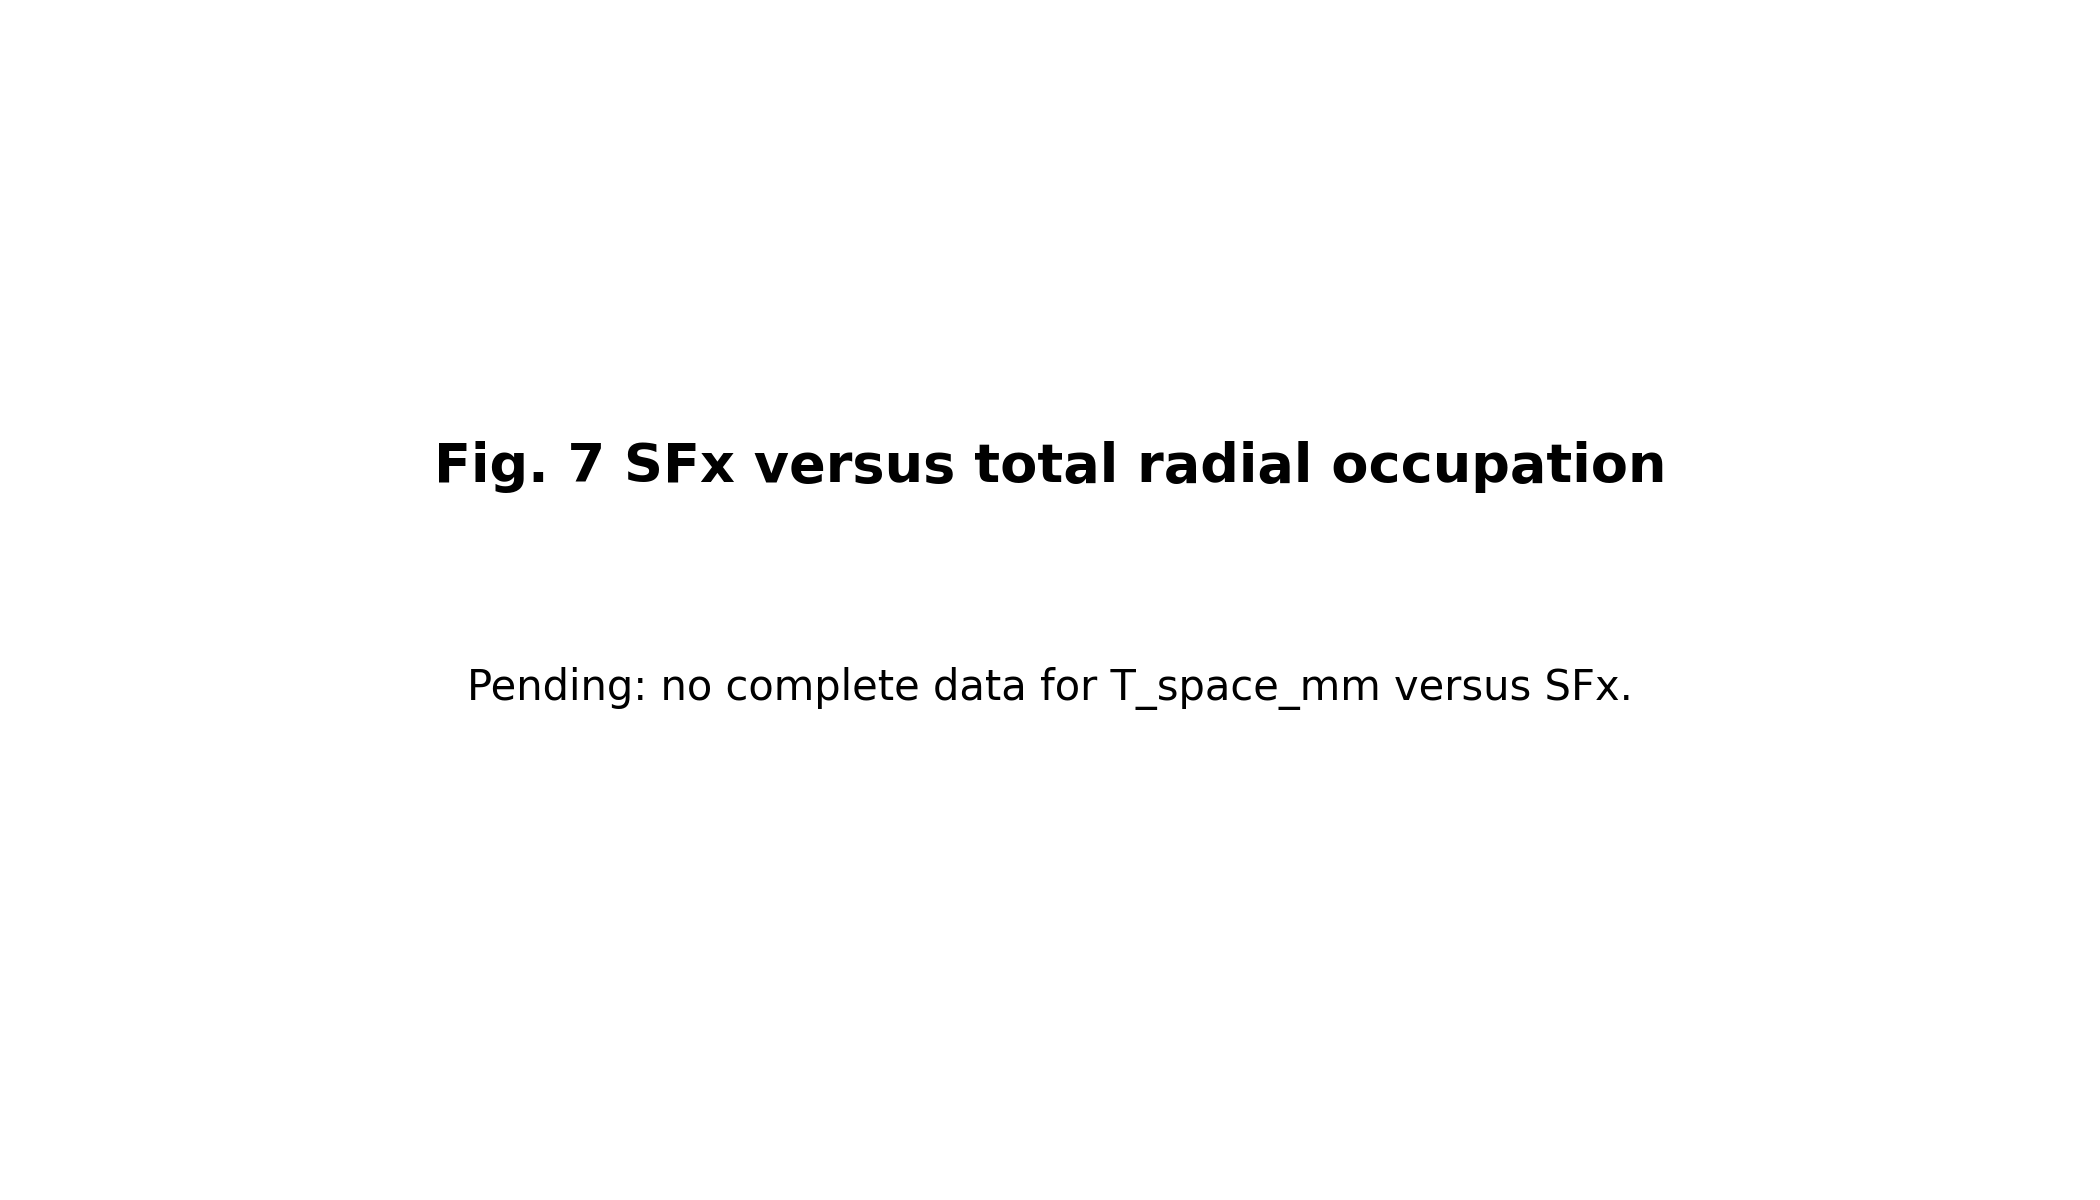
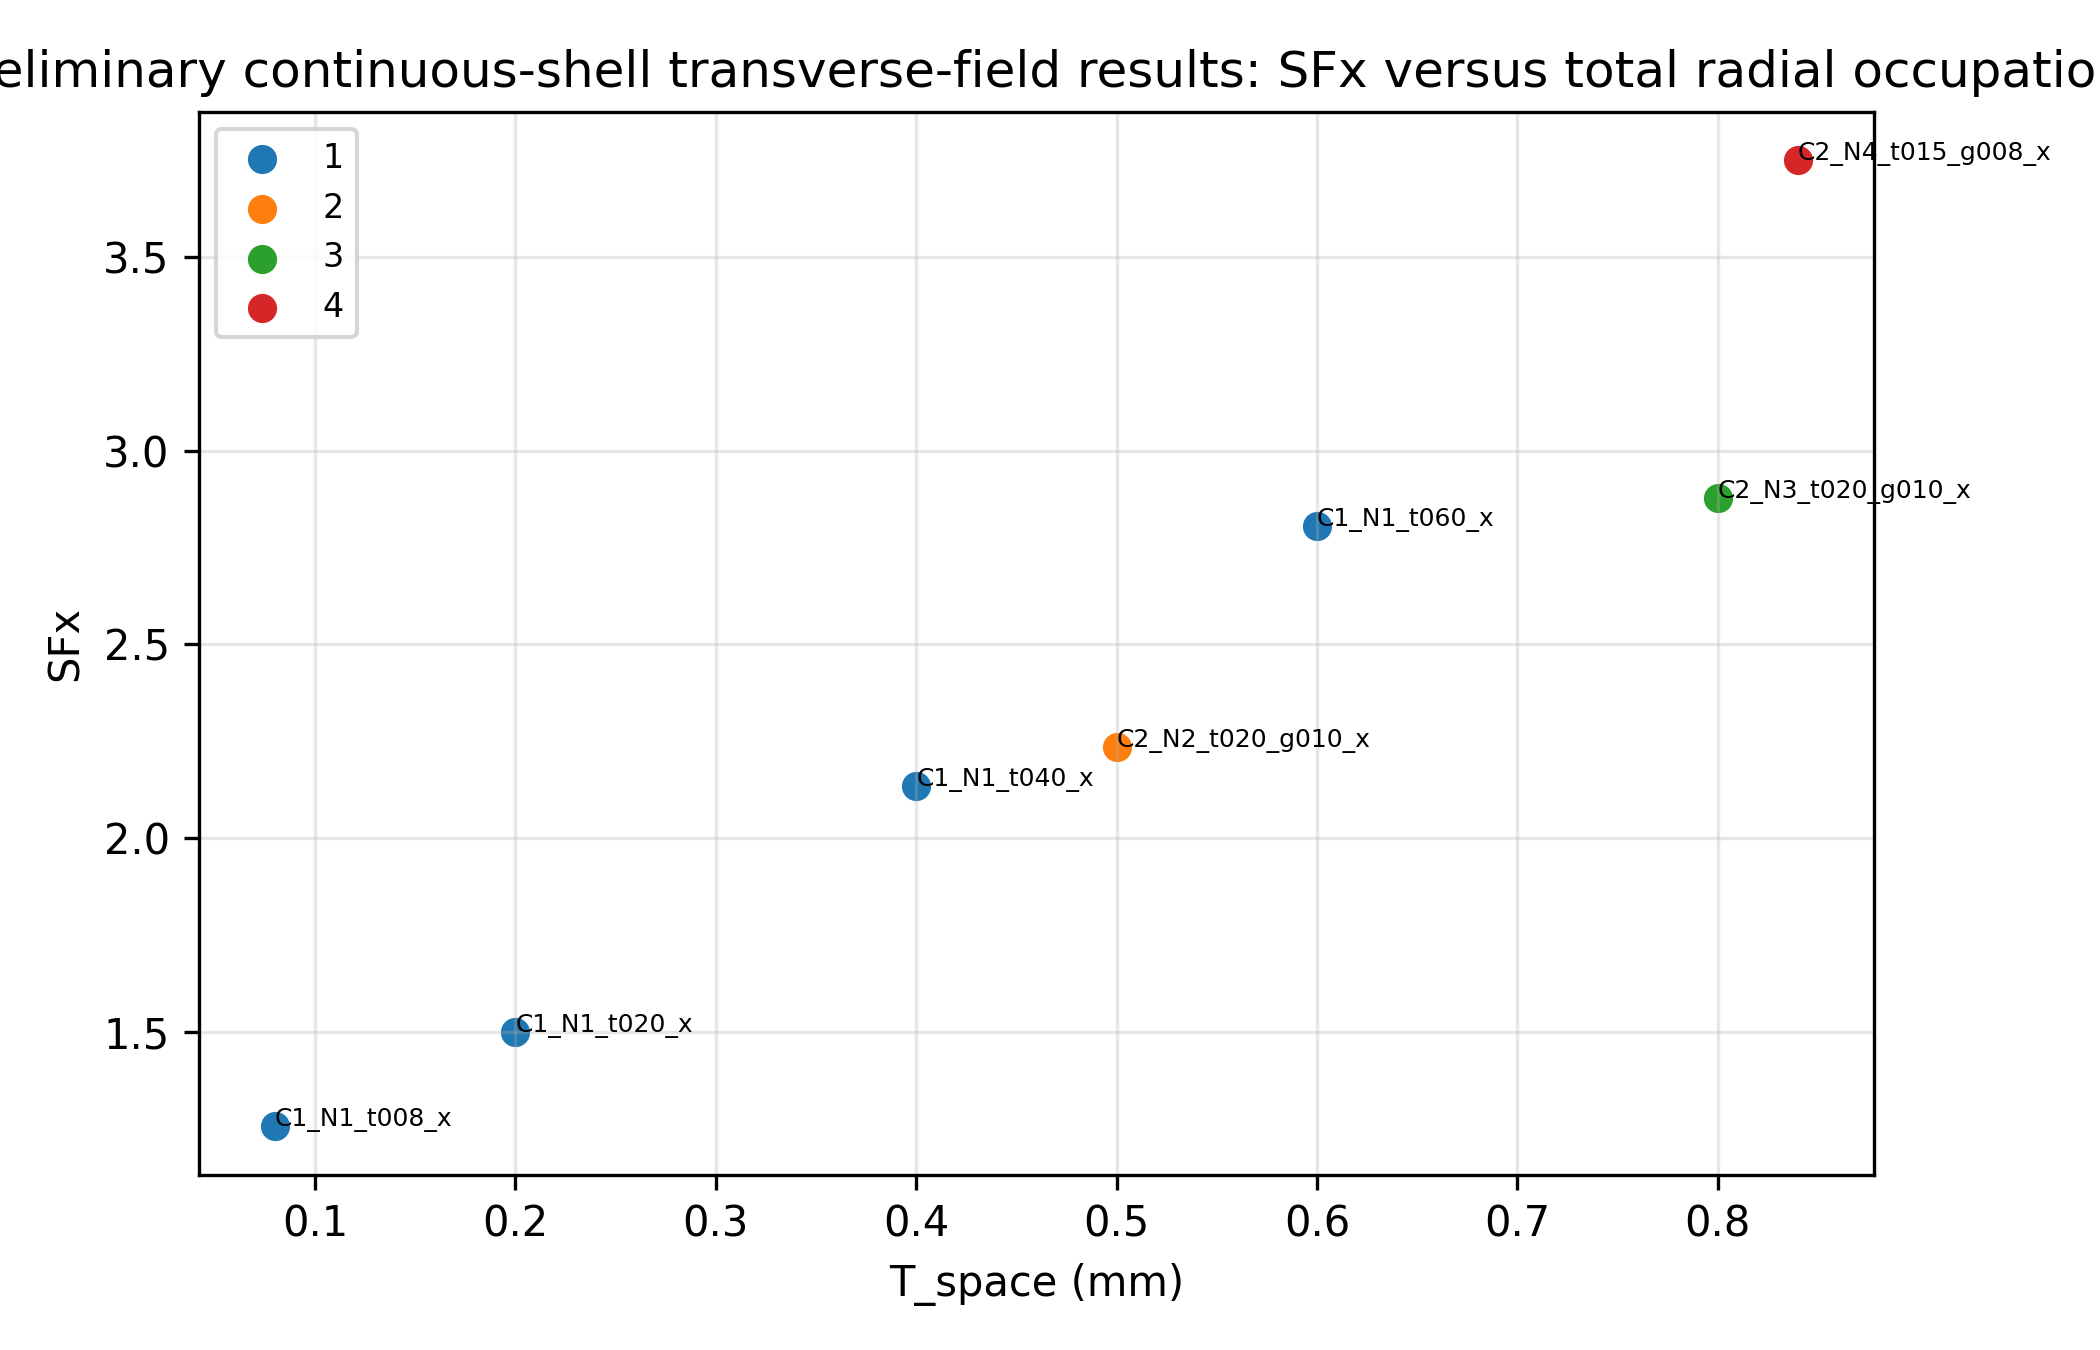
Add preliminary transverse continuous-shell figures

diff --git a/scripts/plotting/plot_paper_figures.py b/scripts/plotting/plot_paper_figures.py
@@ -15,6 +15,20 @@ ROOT = Path(__file__).resolve().parents[2]
 METRICS = ROOT / "data" / "processed" / "metrics_table.csv"
 VALIDATION = ROOT / "data" / "validation" / "layerwise_intH2_validation.csv"
 OUTDIR = ROOT / "figures"
+TRANSVERSE_CASES = [
+    "C1_N1_t008_x",
+    "C1_N1_t020_x",
+    "C1_N1_t040_x",
+    "C1_N1_t060_x",
+    "C2_N2_t020_g010_x",
+    "C2_N3_t020_g010_x",
+    "C2_N4_t015_g008_x",
+]
+LAYERWISE_CASES = [
+    "C2_N2_t020_g010_x",
+    "C2_N3_t020_g010_x",
+    "C2_N4_t015_g008_x",
+]
 
 
 def f(value):
@@ -34,6 +48,17 @@ def read_csv(path):
         return []
     with path.open("r", newline="", encoding="utf-8-sig") as file:
         return list(csv.DictReader(file))
+
+
+def processed_transverse_rows(rows):
+    wanted = set(TRANSVERSE_CASES)
+    return [
+        row for row in rows
+        if row.get("case_id") in wanted
+        and row.get("metric_status") == "processed"
+        and row.get("model_type") == "continuous_shell"
+        and row.get("external_field_direction") == "x"
+    ]
 
 
 def save_placeholder(path, title, message):
@@ -84,7 +109,7 @@ def bar_metrics(path, rows):
     import matplotlib.pyplot as plt
 
     keys = ["etaS_star", "rhoH", "chiH"]
-    complete = [row for row in rows if any(f(row.get(k, "")) == f(row.get(k, "")) for k in keys)]
+    complete = [row for row in rows if all(finite(f(row.get(k, ""))) for k in keys)]
     if not complete:
         save_placeholder(path, "Fig. 5 etaS*, rhoH, chiH comparison", "Pending: no complete metric rows available.")
         return
@@ -95,6 +120,7 @@ def bar_metrics(path, rows):
         values = [0 if not finite(v) else v for v in values]
         ax.bar(labels, values)
         ax.set_ylabel(key)
+        ax.set_title("Preliminary continuous-shell transverse-field results" if key == keys[0] else "")
         ax.grid(True, axis="y", alpha=0.3)
     axes[-1].tick_params(axis="x", rotation=45, labelsize=7)
     fig.tight_layout()
@@ -103,11 +129,17 @@ def bar_metrics(path, rows):
     print(f"Wrote {path}")
 
 
-def layer_fraction(path, rows):
+def layer_fraction(path, rows, validation_rows):
     import matplotlib.pyplot as plt
 
+    passed = {
+        row["case_id"] for row in validation_rows
+        if row.get("validation_status") == "passed"
+    }
     complete = []
     for row in rows:
+        if row.get("case_id") not in LAYERWISE_CASES or row.get("case_id") not in passed:
+            continue
         total = f(row.get("IntH2_total", ""))
         vals = [f(row.get(f"IntH2_L{i}", "")) for i in range(1, 7)]
         vals = [v for v in vals if finite(v)]
@@ -125,6 +157,7 @@ def layer_fraction(path, rows):
         ax.bar(labels, vals, bottom=bottoms, label=f"L{i+1}")
         bottoms = [b + v for b, v in zip(bottoms, vals)]
     ax.set_ylabel("IntH2_Li / IntH2_total")
+    ax.set_title("Preliminary continuous-shell transverse-field results")
     ax.legend()
     ax.tick_params(axis="x", rotation=45, labelsize=7)
     fig.tight_layout()
@@ -136,19 +169,20 @@ def layer_fraction(path, rows):
 def main():
     parser = argparse.ArgumentParser(description="Generate paper figures or pending-data placeholders.")
     parser.add_argument("--metrics", type=Path, default=METRICS)
+    parser.add_argument("--validation", type=Path, default=VALIDATION)
     parser.add_argument("--outdir", type=Path, default=OUTDIR)
     args = parser.parse_args()
 
-    rows = read_csv(args.metrics)
+    rows = processed_transverse_rows(read_csv(args.metrics))
+    validation_rows = read_csv(args.validation)
     args.outdir.mkdir(parents=True, exist_ok=True)
 
-    scatter(args.outdir / "Fig3_SFx_vs_Vf.png", rows, "Vf_mm3", "SFx", "Fig. 3 SFx versus Vf", "Vf (mm^3)", "SFx", "model_type")
-    scatter(args.outdir / "Fig4_IntH2_vs_Vf.png", rows, "Vf_mm3", "IntH2_total", "Fig. 4 IntH2_total,x versus Vf", "Vf (mm^3)", "IntH2_total,x")
+    title_prefix = "Preliminary continuous-shell transverse-field results"
+    scatter(args.outdir / "Fig3_SFx_vs_Vf.png", rows, "Vf_mm3", "SFx", f"{title_prefix}: SFx versus Vf", "Vf (mm^3)", "SFx", "N_layers")
+    scatter(args.outdir / "Fig4_IntH2_vs_Vf.png", rows, "Vf_mm3", "IntH2_total", f"{title_prefix}: IntH2_total versus Vf", "Vf (mm^3)", "IntH2_total")
     bar_metrics(args.outdir / "Fig5_eta_chi_comparison.png", rows)
-    layer_fraction(args.outdir / "Fig6_layerwise_IntH2_fraction.png", rows)
-    scatter(args.outdir / "Fig7_SFx_vs_Tspace.png", rows, "T_space_mm", "SFx", "Fig. 7 SFx versus total radial occupation", "T_space (mm)", "SFx", "N_layers")
-    scatter(args.outdir / "Fig8_axial_vs_transverse_selected.png", rows, "SFx", "SFz", "Fig. 8 axial versus transverse selected candidates", "SFx", "SFz")
-    scatter(args.outdir / "Fig9_segmented_penalty.png", rows, "slot_pattern", "SFx", "Fig. 9 segmented penalty", "slot pattern", "SFx")
+    layer_fraction(args.outdir / "Fig6_layerwise_IntH2_fraction.png", rows, validation_rows)
+    scatter(args.outdir / "Fig7_SFx_vs_Tspace.png", rows, "T_space_mm", "SFx", f"{title_prefix}: SFx versus total radial occupation", "T_space (mm)", "SFx", "N_layers")
 
 
 if __name__ == "__main__":

diff --git a/figures/README_figures.md b/figures/README_figures.md
@@ -1,0 +1,42 @@
+# Preliminary Figure Notes
+
+These figures are preliminary continuous-shell transverse-field results. They do not include axial-field validation, segmented-shell correction, mesh convergence, boundary convergence, or permeability sensitivity.
+
+## Data Sources
+
+- Metrics: `data/processed/metrics_table.csv`
+- Layerwise validation: `data/validation/layerwise_intH2_validation.csv`
+- B0 validation: `data/validation/B0_reference_validation.csv`
+
+## Included Cases
+
+- `C1_N1_t008_x`
+- `C1_N1_t020_x`
+- `C1_N1_t040_x`
+- `C1_N1_t060_x`
+- `C2_N2_t020_g010_x`
+- `C2_N3_t020_g010_x`
+- `C2_N4_t015_g008_x`
+
+## Figures
+
+- `Fig3_SFx_vs_Vf.png`: `Vf_mm3` versus `SFx`.
+- `Fig4_IntH2_vs_Vf.png`: `Vf_mm3` versus `IntH2_total`.
+- `Fig5_eta_chi_comparison.png`: separate panels for `etaS_star`, `rhoH`, and `chiH`.
+- `Fig6_layerwise_IntH2_fraction.png`: `IntH2_Li / IntH2_total` for validated multilayer cases.
+- `Fig7_SFx_vs_Tspace.png`: `T_space_mm` versus `SFx`.
+
+## Passed Checks
+
+- `B0_reference_x` validation status is `passed`.
+- The seven x-directed continuous-shell cases have `metric_status = processed`.
+- Layerwise `IntH2_total` consistency is `passed` for all seven included cases.
+
+## Pending Checks
+
+- `B0_reference_z` and axial-field shielded cases remain pending.
+- Segmented-shell aligned/staggered correction remains pending.
+- Mesh and boundary convergence remain pending.
+- Permeability sensitivity remains pending.
+
+These figures should not be used as final paper conclusions until the pending checks are completed and the relevant rows are manually approved for `used_in_paper`.
